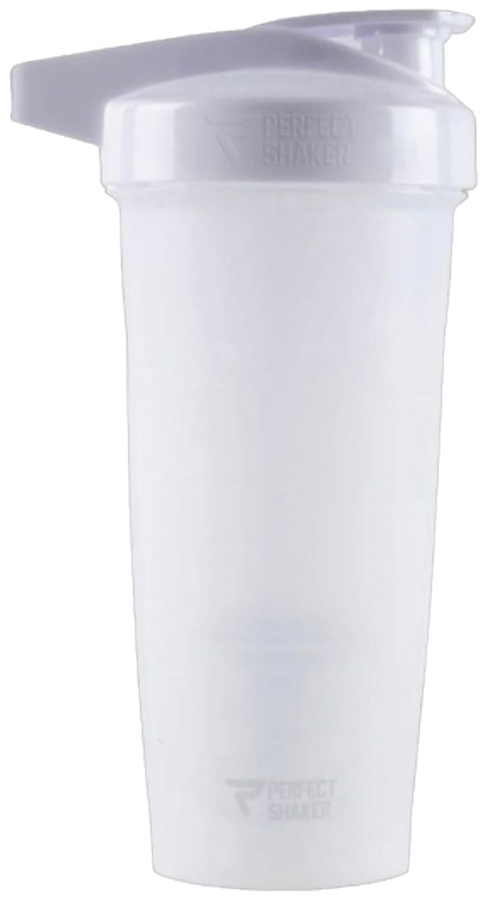
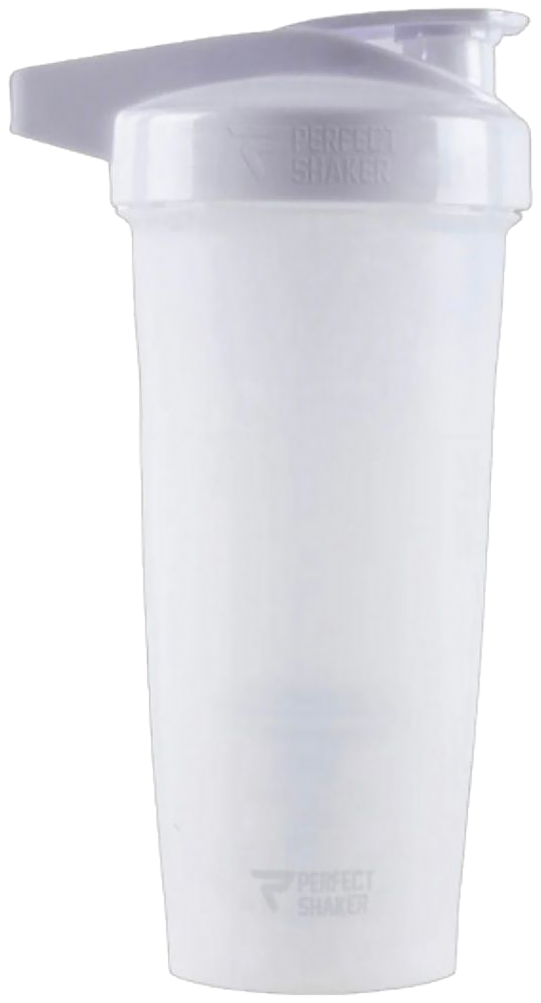
One typeface, artwork resolution guidance, sharper bottle
Typefaces
- Drop the picker and print everything in Anton. Four options meant four ways
  every order could come back, which is work for whoever sets up the print.
  Pacifico is no longer loaded.

Artwork
- State that we resize the image and that the minimum is 3000x3000 px, both on
  the empty upload area and under a picked file.
- Read the real pixel size of the upload and show it, with a warning when
  either side is under the minimum. Vector files are exempt: they have no
  fixed pixel size.

Bottle photo
- Export the cutout at the source's native 541x1003 instead of downscaling to
  900. That covers a 500px render at 2x and a 270px render at 3x exactly.
- The source is a 24 KB JPEG, so the flat plastic carried visible 8x8 blocking.
  Smooth only where the local gradient is low, which clears the blocking and
  leaves the outline and embossed logo crisp.
- Print area re-matched to the new aspect ratio.

diff --git a/components/Pricing.tsx b/components/Pricing.tsx
@@ -21,24 +21,25 @@ const TEXT_COLORS = [
   { id: 'rod',   name: 'Röd',   swatch: '#ef4444', value: '#e02424' },
 ]
 
-/* `factor` is only the first-paint estimate of average glyph advance; the real
-   width is measured off the rendered glyphs so no font can overflow the print. */
-const FONTS = [
-  { id: 'sport',  name: 'Sport',  css: 'var(--font-bebas), Impact, sans-serif',   factor: 0.44, spacing: 0.06, weight: 400, upper: true  },
-  { id: 'impact', name: 'Impact', css: 'var(--font-anton), Impact, sans-serif',   factor: 0.52, spacing: 0.02, weight: 400, upper: true  },
-  { id: 'modern', name: 'Modern', css: 'var(--font-inter), Arial, sans-serif',    factor: 0.68, spacing: 0.03, weight: 900, upper: true  },
-  { id: 'script', name: 'Script', css: 'var(--font-pacifico), cursive',           factor: 0.72, spacing: 0.00, weight: 400, upper: false },
-]
+/* One typeface, so every order prints the same way. `factor` is only the
+   first-paint estimate of average glyph advance; the real width is measured off
+   the rendered glyphs so the text can never overflow the print area. */
+const PRINT_FONT = {
+  id: 'impact', name: 'Impact', css: 'var(--font-anton), Impact, sans-serif',
+  factor: 0.52, spacing: 0.02, weight: 400, upper: true,
+}
 
 const MAX_CHARS = 14
 const MAX_UPLOAD_MB = 8
+/* Artwork is scaled to fit the print, so it has to start out big enough. */
+const MIN_ARTWORK_PX = 3000
 
 /* Print area as a share of the bottle image box, measured off the cutouts:
    the body runs x 26–90 % and y 24–100 %, so this sits on the flat front face. */
 const PRINT = { left: 39, top: 31, width: 38, height: 56 }
-/* viewBox matched to the print box's rendered aspect (bottle PNG is 487×900). */
+/* viewBox matched to the print box's rendered aspect (bottle PNG is 541×1003). */
 const VB_W = 100
-const VB_H = 272
+const VB_H = 273
 const UID = 'hs-print'
 
 /* ── Live print rendering ────────────────────────────────────────────── */
@@ -49,7 +50,7 @@ function BottlePrint({
   text, font, color, vertical, artwork, light, fontEpoch,
 }: {
   text: string
-  font: typeof FONTS[number]
+  font: typeof PRINT_FONT
   color: string
   vertical: boolean
   artwork: string | null
@@ -196,11 +197,10 @@ function BottlePrint({
 export default function Pricing() {
   const [hasText, setHasText]         = useState(false)
   const [customText, setCustomText]   = useState('')
-  const [fontIdx, setFontIdx]         = useState(1)
-  const [textColorIdx, setTextColorIdx] = useState(1)
+    const [textColorIdx, setTextColorIdx] = useState(1)
   const [vertical, setVertical]       = useState(true)
   const [hasImage, setHasImage]       = useState(false)
-  const [artwork, setArtwork]         = useState<{ url: string; name: string } | null>(null)
+  const [artwork, setArtwork]         = useState<{ url: string; name: string; w: number; h: number } | null>(null)
   const [uploadError, setUploadError] = useState('')
   const [copied, setCopied]           = useState<'email' | 'order' | null>(null)
 
@@ -210,12 +210,17 @@ export default function Pricing() {
   const summaryRef = useRef<HTMLDivElement>(null)
 
   const variant = VARIANTS[0]
-  const font    = FONTS[fontIdx]
+  const font    = PRINT_FONT
   const color   = TEXT_COLORS[textColorIdx]
 
   const labelText = hasText ? customText.trim() : ''
   const printArt  = hasImage && artwork ? artwork.url : null
   const price     = hasText && hasImage ? 150 : hasImage ? 130 : 120
+
+  /* Vector art has no fixed pixel size, so only raster uploads get flagged. */
+  const artworkTooSmall = Boolean(
+    artwork && artwork.w > 0 && (artwork.w < MIN_ARTWORK_PX || artwork.h < MIN_ARTWORK_PX),
+  )
 
   /* White ink on a white bottle (or black on black) will not show up. */
   const lowContrast =
@@ -253,8 +258,18 @@ export default function Pricing() {
       return
     }
     setUploadError('')
-    setArtwork({ url: URL.createObjectURL(file), name: file.name })
-    setHasImage(true)
+    const url = URL.createObjectURL(file)
+    // Read the true pixel size so we can flag artwork that is too small to print.
+    const probe = new window.Image()
+    probe.onload = () => {
+      setArtwork({ url, name: file.name, w: probe.naturalWidth, h: probe.naturalHeight })
+      setHasImage(true)
+    }
+    probe.onerror = () => {
+      setArtwork({ url, name: file.name, w: 0, h: 0 })
+      setHasImage(true)
+    }
+    probe.src = url
   }, [])
 
   const removeArtwork = useCallback(() => {
@@ -326,7 +341,6 @@ export default function Pricing() {
     const rows = [
       `Flaska: Perfect Shaker Activ 800 ml – ${variant.name}`,
       hasText && labelText ? `Text: "${labelText}"` : 'Text: —',
-      hasText && labelText ? `Typsnitt: ${font.name}` : null,
       hasText && labelText ? `Textfärg: ${color.name}` : null,
       hasText && labelText ? `Placering: ${vertical ? 'Vertikal' : 'Horisontell'}` : null,
       hasImage ? `Bild: Ja${artwork ? ` (${artwork.name})` : ''} – skickas med` : 'Bild: —',
@@ -348,7 +362,6 @@ export default function Pricing() {
   const reset = useCallback(() => {
     setHasText(false)
     setCustomText('')
-    setFontIdx(1)
     setTextColorIdx(1)
     setVertical(true)
     setHasImage(false)
@@ -432,7 +445,7 @@ export default function Pricing() {
                   onPointerUp={releaseTilt}
                   onPointerCancel={releaseTilt}
                   onPointerLeave={releaseTilt}
-                  className="relative h-[270px] sm:h-[340px] lg:h-[500px] aspect-[487/900] select-none touch-pan-y"
+                  className="relative h-[270px] sm:h-[340px] lg:h-[500px] aspect-[541/1003] select-none touch-pan-y"
                   style={{ cursor: 'grab' }}
                 >
                   {/* Ambient halo */}
@@ -559,33 +572,6 @@ export default function Pricing() {
                     </p>
                   </div>
 
-                  {/* Typeface */}
-                  <div>
-                    <p className="text-white/70 text-xs uppercase tracking-widest mb-2">Typsnitt</p>
-                    <div className="grid grid-cols-4 gap-2">
-                      {FONTS.map((f, i) => (
-                        <button
-                          key={f.id}
-                          onClick={() => setFontIdx(i)}
-                          aria-pressed={fontIdx === i}
-                          className={`rounded-xl border py-2.5 px-1 transition-all duration-150 focus-visible:outline-none focus-visible:ring-2 focus-visible:ring-blue-400 ${
-                            fontIdx === i ? 'border-blue-500 bg-blue-500/10' : 'border-white/10 hover:border-white/30'
-                          }`}
-                        >
-                          <span
-                            className="block text-white text-lg leading-none"
-                            style={{ fontFamily: f.css, fontWeight: f.weight }}
-                          >
-                            {f.upper ? 'Ag' : 'Ag'}
-                          </span>
-                          <span className={`block text-[10px] mt-1.5 ${fontIdx === i ? 'text-blue-200' : 'text-white/50'}`}>
-                            {f.name}
-                          </span>
-                        </button>
-                      ))}
-                    </div>
-                  </div>
-
                   {/* Colour — every option is named, so the full set of choices
                       reads as a set rather than four unlabelled dots. */}
                   <div>
@@ -694,7 +680,14 @@ export default function Pricing() {
                       />
                       <div className="min-w-0 flex-1">
                         <p className="text-white text-sm truncate">{artwork.name}</p>
-                        <p className="text-emerald-400 text-xs mt-0.5">Visas på flaskan till vänster</p>
+                        {artwork.w > 0 ? (
+                          <p className={`text-xs mt-0.5 ${artworkTooSmall ? 'text-amber-300' : 'text-emerald-400'}`}>
+                            {artwork.w} × {artwork.h} px
+                            {artworkTooSmall ? ' — under minimum' : ' — bra upplösning'}
+                          </p>
+                        ) : (
+                          <p className="text-emerald-400 text-xs mt-0.5">Visas på flaskan ovan</p>
+                        )}
                       </div>
                       <button
                         onClick={removeArtwork}
@@ -712,6 +705,7 @@ export default function Pricing() {
                       <Upload size={20} className="text-indigo-300" />
                       <span className="text-white text-sm font-medium">Ladda upp din bild</span>
                       <span className="text-white/50 text-xs">JPG, PNG eller SVG · max {MAX_UPLOAD_MB} MB</span>
+                      <span className="text-white/40 text-xs">Minst {MIN_ARTWORK_PX} × {MIN_ARTWORK_PX} px</span>
                     </button>
                   )}
 
@@ -722,6 +716,18 @@ export default function Pricing() {
                     </p>
                   )}
 
+                  {artworkTooSmall && (
+                    <p className="flex items-start gap-2 text-amber-300/90 text-xs bg-amber-500/10 border border-amber-500/25 rounded-xl px-3 py-2.5">
+                      <AlertTriangle size={14} className="flex-shrink-0 mt-px" />
+                      Bilden är {artwork!.w} × {artwork!.h} px. Under {MIN_ARTWORK_PX} × {MIN_ARTWORK_PX} px
+                      kan trycket bli suddigt. Skicka gärna en större fil.
+                    </p>
+                  )}
+
+                  <p className="text-white/55 text-xs leading-relaxed">
+                    Bilden anpassas till rätt storlek av oss. Minsta upplösning är{' '}
+                    <span className="text-white/80 font-medium">{MIN_ARTWORK_PX} × {MIN_ARTWORK_PX} pixlar</span>.
+                  </p>
                   <p className="text-white/55 text-xs leading-relaxed">
                     Förhandsvisningen sker i din webbläsare — bilden laddas inte upp någonstans.
                     Skicka originalfilen till oss via Instagram DM eller mejl när du beställer.
@@ -741,7 +747,7 @@ export default function Pricing() {
                 {[
                   { label: `Perfect Shaker Activ 800 ml – ${variant.name}`, show: true },
                   { label: 'BPA-fri & läcksäker design', show: true },
-                  { label: labelText ? `Text: “${labelText}” · ${font.name} · ${color.name}` : 'Text (skriv in ovan)', show: hasText },
+                  { label: labelText ? `Text: “${labelText}” · ${color.name}` : 'Text (skriv in ovan)', show: hasText },
                   { label: artwork ? `Bild: ${artwork.name}` : 'Bild/logga', show: hasImage },
                   { label: 'Hög tryckkvalitet', show: hasImage },
                 ].filter(i => i.show).map(item => (

diff --git a/app/layout.tsx b/app/layout.tsx
@@ -1,5 +1,5 @@
 import type { Metadata } from 'next'
-import { Inter, Bebas_Neue, Anton, Pacifico } from 'next/font/google'
+import { Inter, Bebas_Neue, Anton } from 'next/font/google'
 import './globals.css'
 
 const inter = Inter({
@@ -15,18 +15,11 @@ const bebasNeue = Bebas_Neue({
   display: 'swap',
 })
 
-// Print typefaces offered in the bottle configurator.
+// The typeface printed on the bottle.
 const anton = Anton({
   weight: '400',
   subsets: ['latin'],
   variable: '--font-anton',
-  display: 'swap',
-})
-
-const pacifico = Pacifico({
-  weight: '400',
-  subsets: ['latin'],
-  variable: '--font-pacifico',
   display: 'swap',
 })
 
@@ -51,7 +44,7 @@ export default function RootLayout({
   children: React.ReactNode
 }>) {
   return (
-    <html lang="sv" className={`${inter.variable} ${bebasNeue.variable} ${anton.variable} ${pacifico.variable}`}>
+    <html lang="sv" className={`${inter.variable} ${bebasNeue.variable} ${anton.variable}`}>
       <body className={`${inter.className} antialiased`}>
         {children}
       </body>
